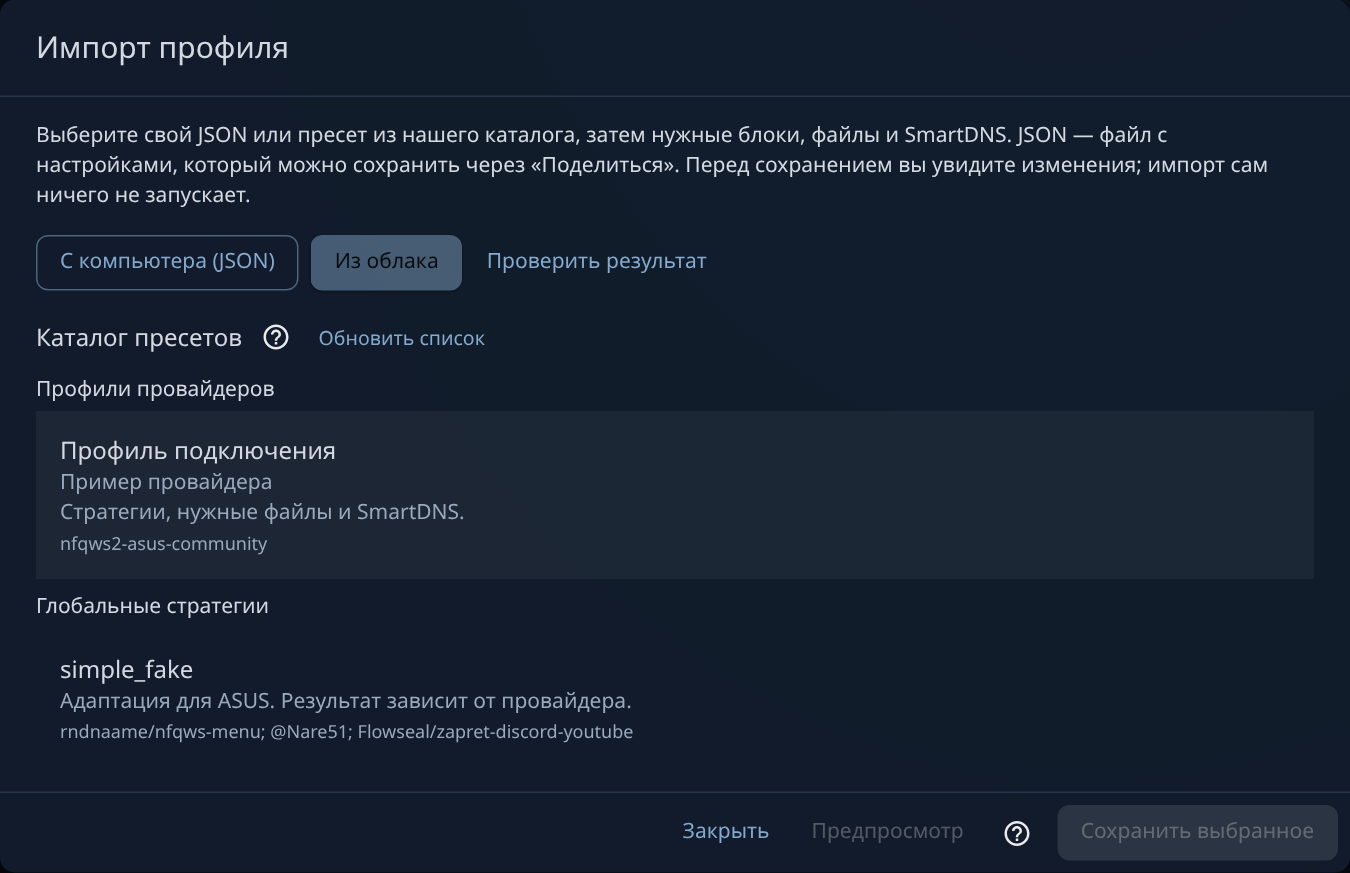
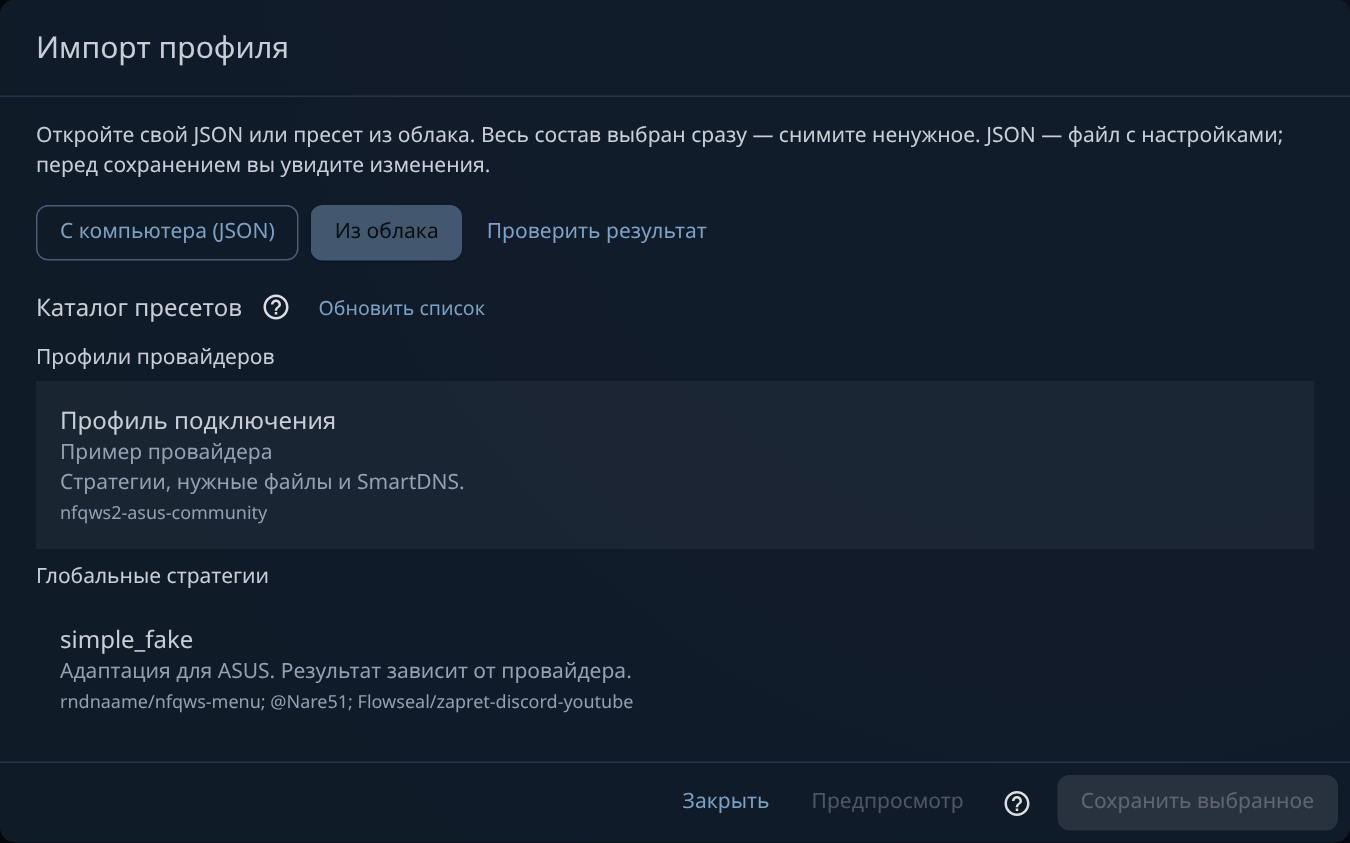
Preserve the complete author JSON selection on import

diff --git a/source/project/webui/web/src/components/ImportDialog.tsx b/source/project/webui/web/src/components/ImportDialog.tsx
@@ -14,6 +14,7 @@ import {
   Typography,
 } from '@mui/material';
 
+import { selectAllImport } from '@/api/bulkSelection';
 import { API } from '@/api/client';
 import {
   applyImport,
@@ -137,6 +138,13 @@ export const ImportDialog = ({ onClose }: { onClose: VoidFunction }) => {
       if (mounted.current) {
         setDocuments(raw);
         setDoc(parsed);
+        setSelection(
+          selectAllImport(parsed, {
+            ...emptyImportSelection(),
+            allow_shared_impact: true,
+            allow_incomplete: true,
+          }),
+        );
       }
     });
   };

diff --git a/source/project/docs/IMPORT.md b/source/project/docs/IMPORT.md
@@ -14,7 +14,7 @@ JSON — файл с профилем, сохранённый в нашей па
 2. Нажмите импорт: **«Из облака»** открывает каталог профилей провайдеров и глобальных стратегий. **«С компьютера (JSON)»** открывает один JSON экспорта либо до пяти JSON-вложений
    из письма: стратегии, ресурсы, DNS. Общий размер — до 4 МиБ.
 3. Отметьте нужные блоки, общие параметры, порты, списки, blobs или
-   карточки SmartDNS с сайтами. Изначально ничего не выбрано. Текст выбранных
+   карточки SmartDNS с сайтами. Весь состав JSON выбран сразу. Снимите галочки с того, что не хотите переносить. Текст выбранных
    копий и поля DNS можно поправить; оригинальный JSON не меняется.
    По умолчанию видны назначение, оператор и переданный регион. Текст открывается
    кнопкой «Раскрыть стратегии»; содержимое файлов — отдельной кнопкой.

diff --git a/CHANGELOG.md b/CHANGELOG.md
@@ -4,9 +4,8 @@
 
 - Импорт своего JSON с компьютера или одобренного пресета из облака.
 - Профили провайдеров и глобальные стратегии показаны отдельно. Выбор блоков, файлов и SmartDNS, предпросмотр и отмена сохранены.
+- При импорте весь состав JSON выбран сразу; ненужное можно отключить.
 - Встроенные blobs движка корректно распознаются при импорте и обмене.
-- «Кроличья нора» — тема при первом открытии; прежний выбор сохраняется.
-- Фрэнк появляется по центру экрана. После 28 нажатий повторяет кивок.
 - Новые окна и сообщения доступны на RU и EN в обоих IPK.
 - Обновлены стратегии.
 

diff --git a/source/documentation/CHANGELOG.md b/source/documentation/CHANGELOG.md
@@ -4,9 +4,8 @@
 
 - Импорт своего JSON с компьютера или одобренного пресета из облака.
 - Профили провайдеров и глобальные стратегии показаны отдельно. Выбор блоков, файлов и SmartDNS, предпросмотр и отмена сохранены.
+- При импорте весь состав JSON выбран сразу; ненужное можно отключить.
 - Встроенные blobs движка корректно распознаются при импорте и обмене.
-- «Кроличья нора» — тема при первом открытии; прежний выбор сохраняется.
-- Фрэнк появляется по центру экрана. После 28 нажатий повторяет кивок.
 - Новые окна и сообщения доступны на RU и EN в обоих IPK.
 - Обновлены стратегии.
 

diff --git a/IMPORT.md b/IMPORT.md
@@ -13,7 +13,7 @@
 4. Откройте **«Предпросмотр»**. Проверьте замены и недостающие зависимости.
 5. Нажмите **«Сохранить выбранное»**. Затем перезапустите NFQWS2, когда будете готовы.
 
-Изначально ничего не выбрано. Текст стратегии скрыт до **«Раскрыть стратегии»**.
+Весь состав JSON выбран сразу. Снимите галочки с того, что не хотите переносить. Текст стратегии скрыт до **«Раскрыть стратегии»**.
 Имена и пути к файлам показаны как в обычном редакторе. Встроенные Lua входят в пакет.
 Локальные WAN, очередь и клиенты не заменяются чужими настройками.
 

diff --git a/source/documentation/IMPORT.md b/source/documentation/IMPORT.md
@@ -13,7 +13,7 @@
 4. Откройте **«Предпросмотр»**. Проверьте замены и недостающие зависимости.
 5. Нажмите **«Сохранить выбранное»**. Затем перезапустите NFQWS2, когда будете готовы.
 
-Изначально ничего не выбрано. Текст стратегии скрыт до **«Раскрыть стратегии»**.
+Весь состав JSON выбран сразу. Снимите галочки с того, что не хотите переносить. Текст стратегии скрыт до **«Раскрыть стратегии»**.
 Имена и пути к файлам показаны как в обычном редакторе. Встроенные Lua входят в пакет.
 Локальные WAN, очередь и клиенты не заменяются чужими настройками.
 

diff --git a/PRESETS.md b/PRESETS.md
@@ -1,6 +1,6 @@
 # Каталог пресетов
 
-В панели нажмите **импорт → «Из облака»**. Выберите профиль провайдера или глобальную стратегию, затем нужные блоки, списки, blobs и настройки SmartDNS.
+В панели нажмите **импорт → «Из облака»**. Выберите профиль провайдера или глобальную стратегию, Его блоки, списки, blobs и настройки SmartDNS выбраны сразу. Ненужное можно отключить.
 
 **«Предпросмотр» → «Сохранить выбранное»**. Загрузка пресета сама ничего не включает. DNS сохраняется в черновик SmartDNS и подключается отдельно.
 

diff --git a/source/documentation/PRESETS.md b/source/documentation/PRESETS.md
@@ -1,6 +1,6 @@
 # Каталог пресетов
 
-В панели нажмите **импорт → «Из облака»**. Выберите профиль провайдера или глобальную стратегию, затем нужные блоки, списки, blobs и настройки SmartDNS.
+В панели нажмите **импорт → «Из облака»**. Выберите профиль провайдера или глобальную стратегию, Его блоки, списки, blobs и настройки SmartDNS выбраны сразу. Ненужное можно отключить.
 
 **«Предпросмотр» → «Сохранить выбранное»**. Загрузка пресета сама ничего не включает. DNS сохраняется в черновик SmartDNS и подключается отдельно.
 
